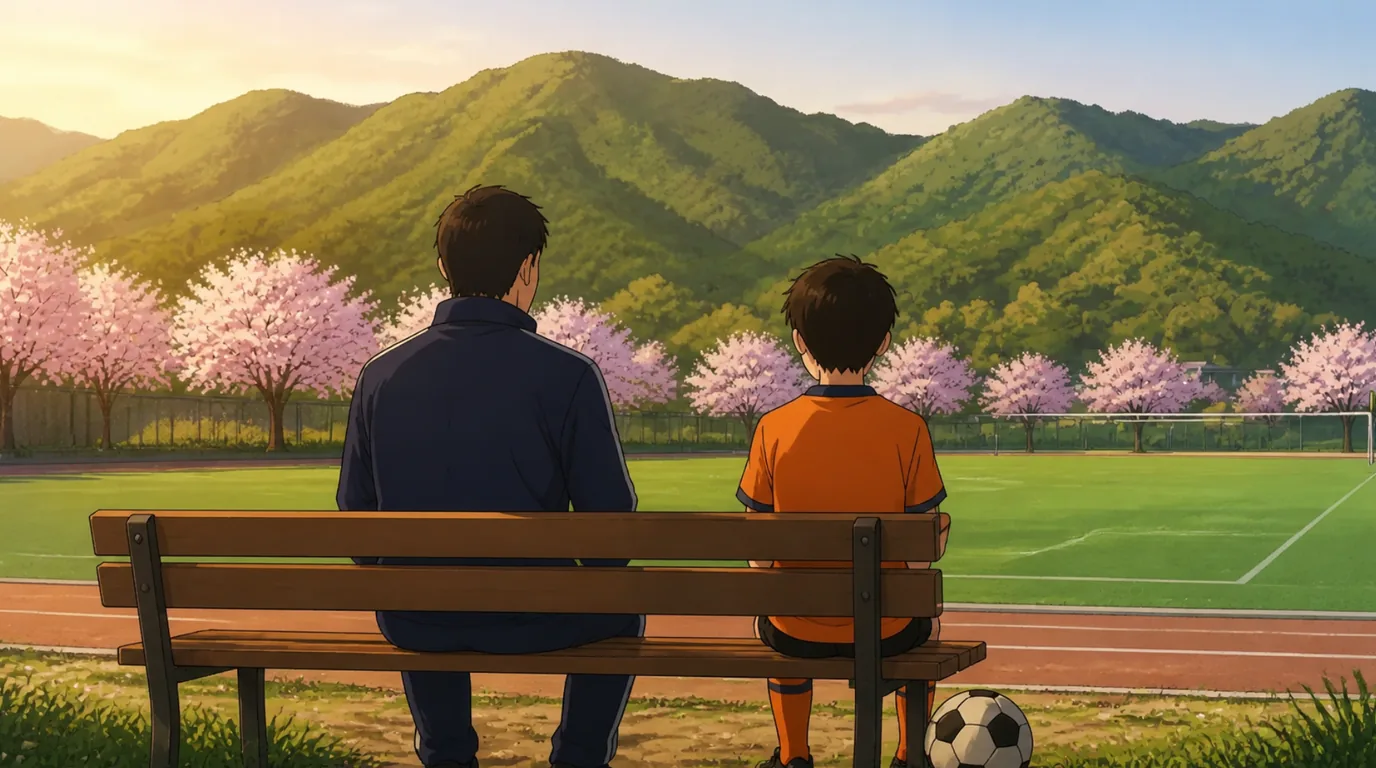
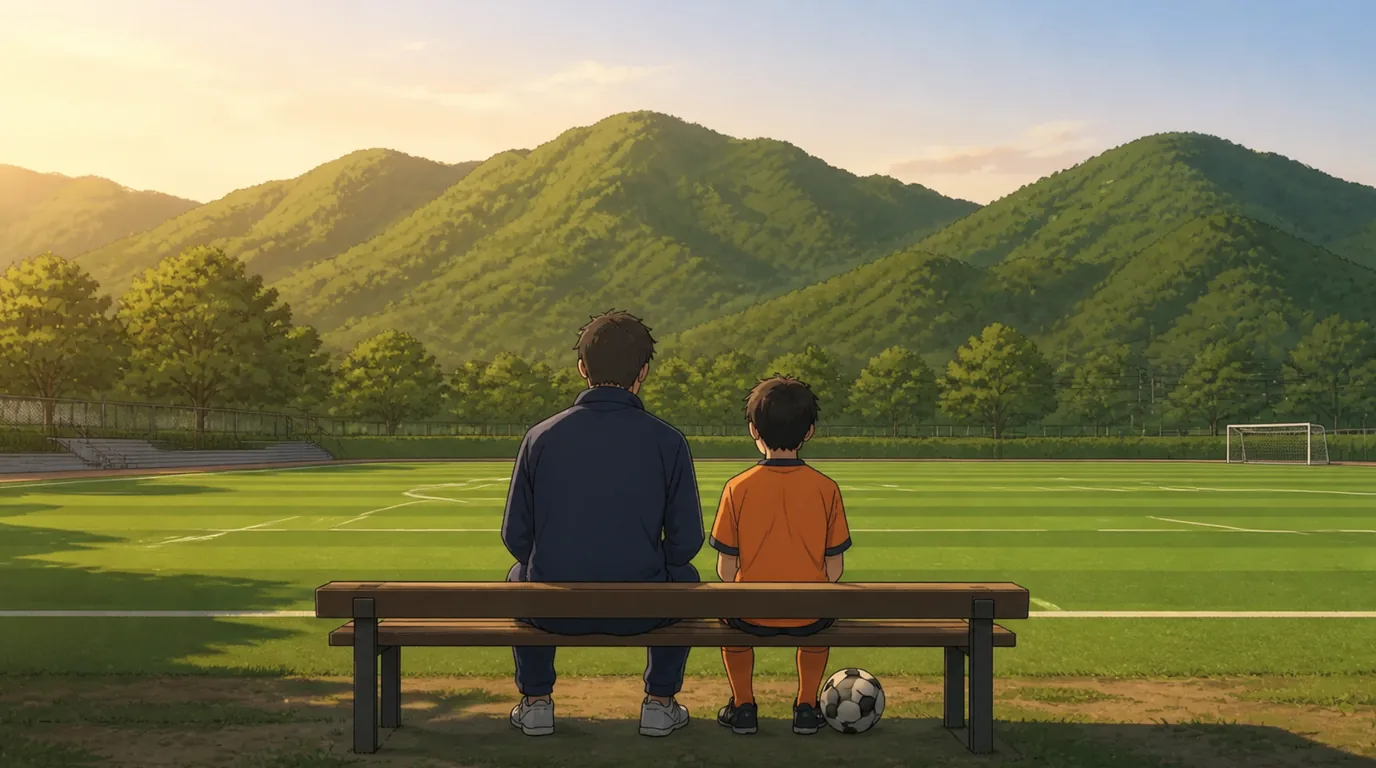
관리자 UID 넣기, 그림 3차 8장 (전남 하프타임·승부차기, 벚꽃 뺀 운동장 6장)
- js/net/fb.js, firestore.rules: 실제 관리자 UID
- assets/img: ev_jn_halftime, ev_jn_shootout 추가,
  ev_laps, ev_bench, ev_kids, ev_ankle, ev_scrimmage, ev_wallet 은 벚꽃 없는 그림으로 교체
- node tools/bundle.mjs 실행

Claude-Session: https://claude.ai/code/session_01UJPqUPxTuMgghcJmQGjtyH

diff --git a/offline-files.js b/offline-files.js
@@ -29,7 +29,7 @@ self.OFFLINE_FILES = [
   ["js/engine/traits.js","4b5e58ed33"],
   ["js/engine/week.js","c285e715ba"],
   ["js/main.js","b32705ae2d"],
-  ["js/net/fb.js","4d2e131c5b"],
+  ["js/net/fb.js","eb7f19779f"],
   ["js/net/online.js","9aadd93c26"],
   ["js/rng.js","0c6689a4aa"],
   ["js/state.js","1d3cc4cbb4"],
@@ -80,12 +80,12 @@ self.OFFLINE_FILES = [
   ["assets/img/ending_national.webp","0b190db5e6"],
   ["assets/img/ending_pro.webp","82534da7b6"],
   ["assets/img/ending_setback.webp","a66dd7a1af"],
-  ["assets/img/ev_ankle.webp","5a26c06267"],
+  ["assets/img/ev_ankle.webp","6ebed327b3"],
   ["assets/img/ev_appleday.webp","8f2a8bc7bc"],
   ["assets/img/ev_art.webp","6ed4e706df"],
   ["assets/img/ev_award.webp","dab4b27cdc"],
   ["assets/img/ev_beach.webp","e655ba342c"],
-  ["assets/img/ev_bench.webp","1bf279c6f7"],
+  ["assets/img/ev_bench.webp","6593f3c1e4"],
   ["assets/img/ev_birthday.webp","9511384cfe"],
   ["assets/img/ev_birthday_home.webp","60df1bceec"],
   ["assets/img/ev_boots.webp","1ceb1e730f"],
@@ -121,11 +121,13 @@ self.OFFLINE_FILES = [
   ["assets/img/ev_injury_home.webp","1264160657"],
   ["assets/img/ev_jjajang.webp","4b89a5e082"],
   ["assets/img/ev_jn_camp.webp","4c012ab19a"],
+  ["assets/img/ev_jn_halftime.webp","08049b8ec7"],
+  ["assets/img/ev_jn_shootout.webp","77589e3f54"],
   ["assets/img/ev_jokgu.webp","62e4b9776e"],
   ["assets/img/ev_karaoke.webp","8a47fe0eb9"],
-  ["assets/img/ev_kids.webp","0f44a569b0"],
+  ["assets/img/ev_kids.webp","a857f0f8e0"],
   ["assets/img/ev_lab.webp","c8a4effece"],
-  ["assets/img/ev_laps.webp","162dc5e7ac"],
+  ["assets/img/ev_laps.webp","14a2fdec5e"],
   ["assets/img/ev_launch.webp","720a0faf5c"],
   ["assets/img/ev_library.webp","b6f862dbcd"],
   ["assets/img/ev_lifting.webp","ed6334dc74"],
@@ -154,7 +156,7 @@ self.OFFLINE_FILES = [
   ["assets/img/ev_rival.webp","546574e779"],
   ["assets/img/ev_schooltrip.webp","1f3f052cc0"],
   ["assets/img/ev_scout.webp","7ed385e76d"],
-  ["assets/img/ev_scrimmage.webp","09a9917eda"],
+  ["assets/img/ev_scrimmage.webp","424a17b07d"],
   ["assets/img/ev_seatmate.webp","c0cffefb98"],
   ["assets/img/ev_selection.webp","413eac3cd3"],
   ["assets/img/ev_shootout.webp","c0df4a3d27"],
@@ -170,7 +172,7 @@ self.OFFLINE_FILES = [
   ["assets/img/ev_umbrella.webp","d7cdf6e8ab"],
   ["assets/img/ev_video.webp","6be507ffcd"],
   ["assets/img/ev_vote.webp","94a82f414c"],
-  ["assets/img/ev_wallet.webp","7dafa8b821"],
+  ["assets/img/ev_wallet.webp","89a4c68437"],
   ["assets/img/ev_welcome.webp","61f398c162"],
   ["assets/img/ev_yuja.webp","1266e8fe4c"],
   ["assets/img/face_01_g1.webp","387c77d58c"],

diff --git a/sw.js b/sw.js
@@ -8,7 +8,7 @@
 // - 그림·글꼴은 "저장본 먼저": 저장본을 바로 보여 주고, 인터넷이 되면 뒤에서 새 파일로 바꿔 둠.
 // - 미리 받아 둘 파일 목록은 offline-files.js (node tools/bundle.mjs 가 자동으로 만듦)
 
-const BUILD = "e7aae291d526";                // node tools/bundle.mjs 가 자동으로 바꿈 (바뀌면 새 버전으로 인식)
+const BUILD = "9ab8fef8bcc3";                // node tools/bundle.mjs 가 자동으로 바꿈 (바뀌면 새 버전으로 인식)
 importScripts("offline-files.js?b=" + BUILD);   // 빌드마다 주소가 달라 예전 목록이 캐시에서 나오지 않음
 const CACHE = "gfc-files";          // 게임 파일
 const FONT_CACHE = "gfc-fonts-v1";  // 인터넷 글꼴

diff --git a/js/net/fb.js b/js/net/fb.js
@@ -6,7 +6,7 @@ export const FB = {
 };
 // 관리자(선생님) 계정의 Firebase UID (Firebase 콘솔 > Authentication > 사용자 UID).
 // 공개 저장소에 이메일을 남기지 않으려고 이메일 대신 UID로 확인합니다. 바꾸면 firestore.rules 의 isAdmin()도 같이 바꿔야 합니다.
-export const ADMIN_UID = "__ADMIN_UID__";
+export const ADMIN_UID = "hagCnEPjGZdp0a5WHAT8UZbSy173";
 export const isAdmin = a => !!a?.uid && a.uid === ADMIN_UID;
 // 학생 계정은 '학번.열쇠@fc.goheung' 모양의 가짜 이메일로 만듭니다 (학생은 학번만 입력)
 export const STUDENT_DOMAIN = "fc.goheung";

diff --git a/js/game.bundle.js b/js/game.bundle.js
@@ -13535,7 +13535,7 @@ const FB = {
 };
 // 관리자(선생님) 계정의 Firebase UID (Firebase 콘솔 > Authentication > 사용자 UID).
 // 공개 저장소에 이메일을 남기지 않으려고 이메일 대신 UID로 확인합니다. 바꾸면 firestore.rules 의 isAdmin()도 같이 바꿔야 합니다.
-const ADMIN_UID = "__ADMIN_UID__";
+const ADMIN_UID = "hagCnEPjGZdp0a5WHAT8UZbSy173";
 const isAdmin = a => !!a?.uid && a.uid === ADMIN_UID;
 // 학생 계정은 '학번.열쇠@fc.goheung' 모양의 가짜 이메일로 만듭니다 (학생은 학번만 입력)
 const STUDENT_DOMAIN = "fc.goheung";
